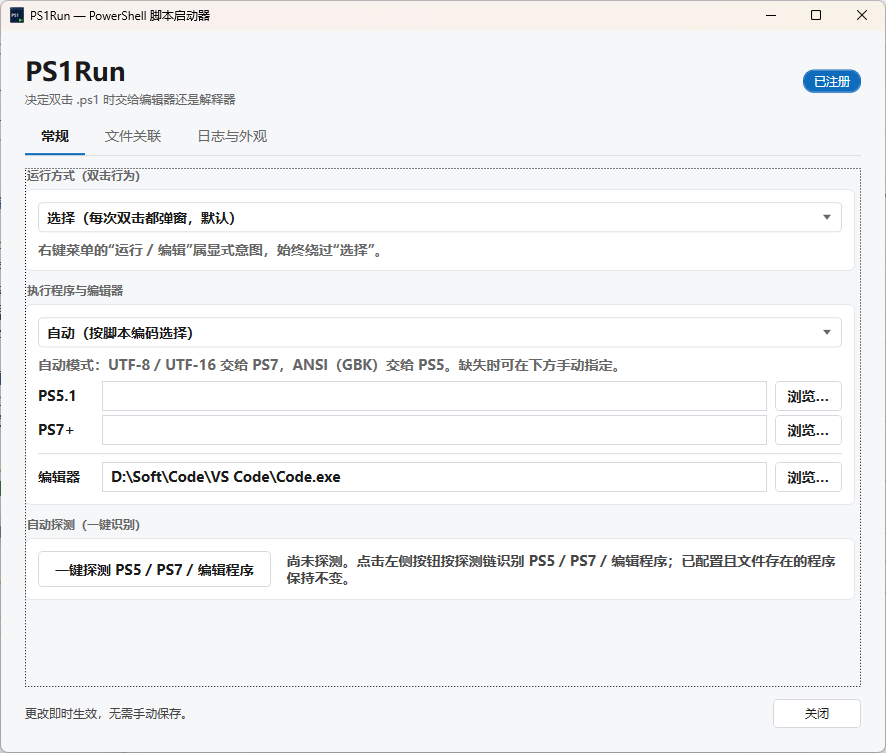
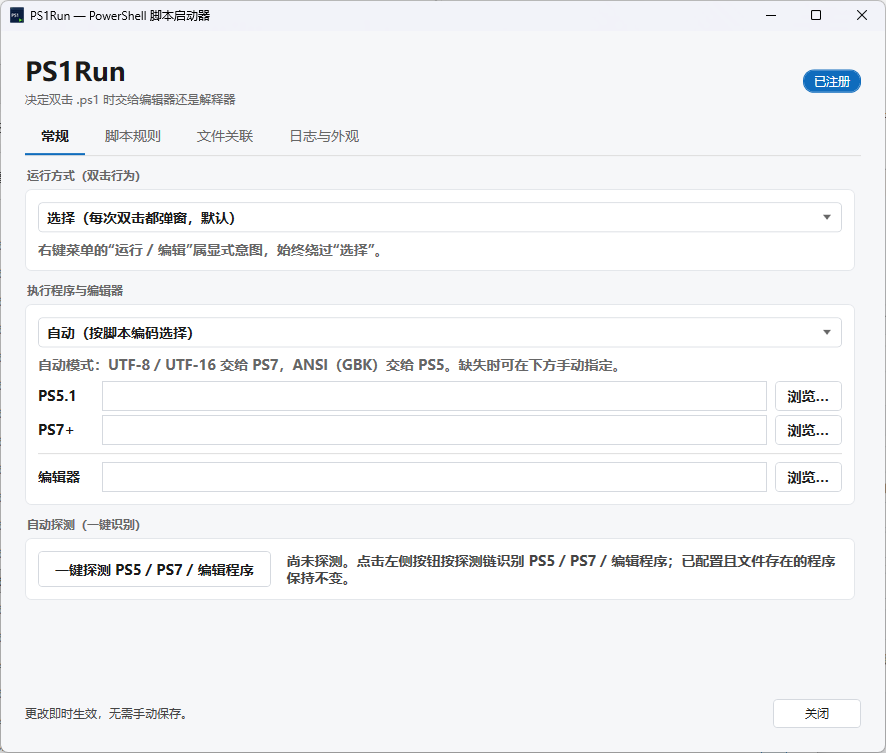
chore(release): 0.3.2 规则页布局与截图更新

diff --git a/Ps1Run.App/Views/MainWindow.xaml b/Ps1Run.App/Views/MainWindow.xaml
@@ -253,15 +253,20 @@
                             <StackPanel>
                                 <TextBlock Text="{loc:T Hint.RulePathAlways}" Margin="0,0,0,8"
                                            Foreground="{DynamicResource App.ForegroundSecondary}" TextWrapping="Wrap" />
+                                <StackPanel Orientation="Horizontal" Margin="0,0,0,8">
+                                    
                                 <CheckBox Content="{loc:T Label.RuleSize}" Margin="0,0,0,6"
                                           IsChecked="{Binding RuleMatchSize, Mode=TwoWay}" />
                                 <CheckBox Content="{loc:T Label.RuleModifiedTime}" Margin="0,0,0,6"
                                           IsChecked="{Binding RuleMatchModifiedTime, Mode=TwoWay}" />
+                                          </StackPanel>
+                                <StackPanel Orientation="Horizontal" Margin="0,0,0,8">
                                 <CheckBox Content="{loc:T Label.RuleHash}"
                                           IsChecked="{Binding RuleMatchHash, Mode=TwoWay}" />
                                 <TextBlock Text="{loc:T Hint.RuleHash}" Margin="0,6,0,0"
                                            FontSize="11" Foreground="{DynamicResource App.ForegroundMuted}"
                                            TextWrapping="Wrap" />
+                                                     </StackPanel>
                             </StackPanel>
                         </GroupBox>
 

diff --git a/CHANGELOG.md b/CHANGELOG.md
@@ -1,5 +1,11 @@
 # 变更说明 / Changelog
 
+## 0.3.2 — 2026-11-26
+
+- 「脚本规则」页的判断标准改为横向分组：文件大小与修改时间一行，文件 HASH 与「可能减缓脚本启动速度」提示一行，减少纵向占用。
+- 更新 README 中英文版首页截图 `wiki/home-1.png`、`wiki/home-2.png`，与当前界面一致。
+- 验证：`net48` 与 `net11.0-windows` 双目标构建 0 警告 0 错误。
+
 ## 0.3.1 — 2026-11-26 — 语言切换改为重启生效
 
 - 切换语言不再即时重载语言包：选择只写入 `config.cfg`，当前界面保持原语言，避免动态换语言造成部分文字残留旧语言。
